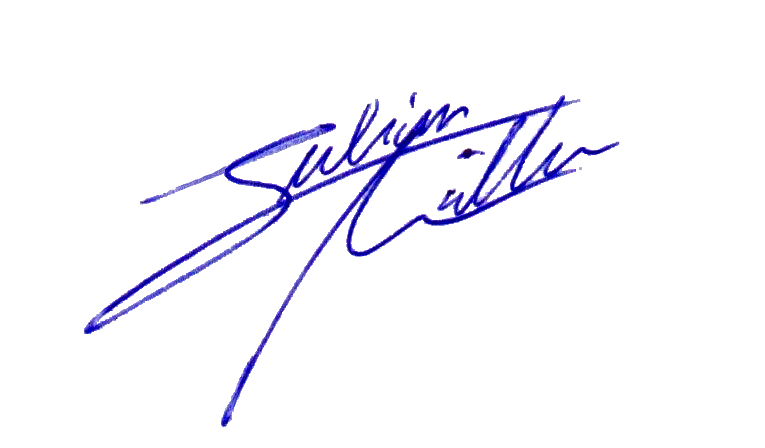
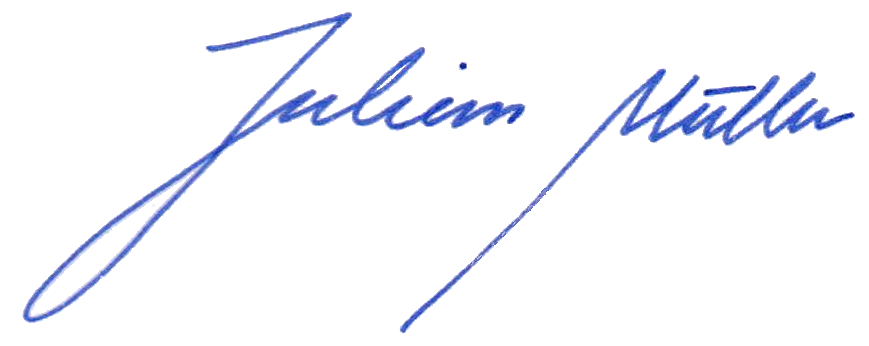
all done

diff --git a/CV.en/cv.tex b/CV.en/cv.tex
@@ -1,0 +1,248 @@
+\documentclass[noindent]{scrartcl}
+
+\usepackage{header}
+
+\begin{document}
+
+
+%----------------------------------------------------------------------------------------
+%	NAME AND CONTACT INFORMATION SECTION
+%----------------------------------------------------------------------------------------
+
+\thispagestyle{empty}
+\begin{tikzpicture}[remember picture,overlay]
+    \node[align=center] at ([yshift=-7cm]current page.north)%
+         {\huge \spacedallcaps{Curriculum Vitae}};
+    % cover photo
+    \node[align=center] (image) at ([yshift=-13cm]current page.north) %
+         {\includegraphics[width=75mm,height=105mm]{Foto}};
+    % name and address
+    \node[align=center] (name) at ([yshift=-19cm]current page.north) %
+         {\Huge \textcolor{blaze}{\spacedallcaps{Julian Müller}}};
+    \node[align=center] at ([yshift=-20.2cm]current page.north) %
+         {\textcolor{blaze}{\spacedallcaps{Maschinenbau, (B.E)}}};
+    \node[align=center] at ([yshift=-21.2cm]current page.north) %
+         {\textcolor{blaze}{\spacedallcaps{Logik, (M.A.)}}};
+    \node[align=left] at ([xshift=0.3cm,yshift=-25cm]current page.north) % 
+         {\color{textgray}
+			\begin{tabular}{lr}
+             Date of Birth & 29 Octobre 1984 \vspace{0.5em} \\
+
+             Place of Birth & 77694 Kehl (Germany) \vspace{0.5em} \\
+
+             Email & \href{mailto:jul.mue@hotmail.de}{jul.mue@hotmail.de} \vspace{0.5em} \\
+
+             Website & \href{https://julmue.github.io}{julmue.github.io} \vspace{0.5em} \\
+
+             Phone & +49 176 55509278 \vspace{0.5em}  \\
+
+             Address & Josef-Gottwald-Stra\ss e 1 \vspace{0.5em}  \\
+                       & 77654 Offenburg \vspace{0.5em} \\
+                       & Germany\\
+            \end{tabular}
+         };
+\end{tikzpicture}
+%\thispagestyle{empty} % Stop the page count at the bottom of the first page
+
+% Your name
+\newpage
+%\begin{cv}{\spacedallcaps{Julian Müller}}\vspace{1.5em} 
+
+%----------------------------------------------------------------------------------------
+%	EDUCATION
+%----------------------------------------------------------------------------------------
+
+\begin{cv}
+
+\topic{Education}
+
+\NewEntry{2013-2016}{Logic}{University of Leipzig}
+
+\Description{\MarginText{\href{http://www.sozphil.uni-leipzig.de/cm/logik/}{Master of Logics}\\
+(Grade Point Average: 1.8)}%
+%Abschluss: 1.6 (angestrebt)\newline%
+Specializations:
+\EvenThree
+    {\isym\ \textit{Constraint Programming}}%
+    {\isym\ \textit{Paraconsistent Logics}}%
+    {\isym\ \textit{Knowledge Representation}}
+{Thesis: \textit{The Lambda Calculus as a paradigmatic Concept of Computatbility}\newline
+\isym\ \textit{In Computer Science}: As a foundation for programming languages\newline
+\isym\ \textit{In Proof Theory}: Curry-Howard-Lambek-isomorphism\newline
+\isym\ \textit{In Mathematics}: As the internal language of cartesian closed categories\newline
+Supervisor: Dr.~Peter \textsc{Steinacker}, Prof.~Thomas \textsc{Bartelborth}}\newline
+Due: 14.07.2016}
+
+%------------------------------------------------
+
+\NewEntry{2008-2013}{Mechanical Engineering}{RFH Köln}
+
+\Description{\MarginText{Bachelor of Engineering\\(Grade Point Average: 1.8)}%
+Specialization:
+\EvenThree%
+    {\isym\ \textit{Technical Optics / Laser Technology}}%
+    {\isym\ \textit{Mechatronics}}%
+    {\isym\ \textit{Programming in C}}%
+Thesis (Grade 1.0): \textit{Wear Detection of Cutting Tools in Tunneling}\newline
+\isym\ \textit{Development and Construction of a Laser Scanner for Wear Detection}\newline
+\isym\ \textit{Comparison of Methods for Industrial Image Processing (2d/3d)}\newline
+\isym\ \textit{Project specific analysis of geometric and logistic constraints of\\ 
+               \hspace{0.8em}tunneling processes}\newline
+Supervisor: Prof.~Werner \textsc{Simon}, Prof.~Marcus \textsc{Scholl}}
+
+\NewEntry{2004-2007}{Event Organizer}{Angell Institut Freiburg}
+
+\Description{\MarginText{Event Organizer}%
+Training as an \textit{International Event Organizer}.}
+%------------------------------------------------
+
+%----------------------------------------------------------------------------------------
+%	WORK EXPERIENCE
+%----------------------------------------------------------------------------------------
+
+\topic{Work Experience}
+
+% ------------------------------------------------------------------------------
+% ------------------------------------------------------------------------------
+% ------------------------------------------------------------------------------
+\NewEntry{04/2012-07/2012}{Working Student}{Herrenknecht AG}
+
+\Description{\MarginText{Working Studend\\Research \& Development}%
+Completion of the research project :\newline
+Design and Construction of a test bench for laser triangulation:\newline
+\isym\ Calculation of the parameters of the optical measuring unit\newline
+\isym\ Design, implementation and commissioning of the prototype
+}
+
+\NewEntry{10/2010-04/2012}{Diplomate (R\&D)}{Herrenknecht AG}
+
+\Description{\MarginText{Diplomate\\Research \& Development}%
+Comparison of procedurs for optical measurment:\newline
+\isym\ Testing and examination of depth-map generating procedures\newline
+\isym\ Examination of procedures for feature detection in image data\newline
+\isym\ Analysis of processes in mechanized tunneling\newline
+\isym\ Developing a conceptual design of an optical measuring system
+}
+
+\NewEntry{09/2010-03/2011}{Intern (R\&D)}{Herrenknecht AG}
+     
+\Description{\MarginText{Intern\\Research \& Development}%
+Development of concepts for mechanized tunneling:\newline
+\isym\ Project: concepts of mechanized tunneling in nuclear research\newline
+\isym\ Concept for traffic tunneling: expansion of existing tunnels under \\
+       \hspace{0.85em}upkeep of road- and railtraffic
+}
+
+
+\NewEntry{01/2009-09/2009}{Tutor (Mathematics)}{RFH Köln}
+
+\Description{\MarginText{Tutor\\Mathematics}%
+Tutorial for engineering mathematics:\newline
+\isym\ Foundations of engineering mathematics\newline
+\isym\ Calculus\newline
+\isym\ Linear algebra
+}
+
+\NewEntry{04/2006-07/2006}{Intern (Administration)}{LLombart Export}
+     
+\Description{\MarginText{Intern\\(Administration)}%
+Internship abroad --- task area in administration:\\ 
+Office work, translations
+}
+
+% ------------------------------------------------------------------------------
+% ------------------------------------------------------------------------------
+% ------------------------------------------------------------------------------
+
+\newpage
+%----------------------------------------------------------------------------------------
+%	Projekte
+%----------------------------------------------------------------------------------------
+\topic{Software Projects}
+
+\NewEntry{Functional Programming}{Haskell}{\href{https://github.com/julmue/UntypedLambda}{Project Page}}
+
+\Description{\MarginText{Interpreter}%
+Interpreter for the untyped lambda calculus;
+Besides being the paradigmatic language for functional programming, the lambda calculus sees 
+wide application as an intermediate language for compilers.
+}
+
+\NewEntry{Functional Programming}{Haskell}{\href{https://github.com/julmue/lfo}{Project Page}}
+
+\Description{\MarginText{Type-Checker}%
+Interpreter for the simply typed lambda calculus;
+This calculus is the theoretical foundation for statically typed functional programming languages
+and of major importance in proof theory.
+}
+
+\NewEntry{Constraint Programmierung}{Haskell}{\href{https://github.com/julmue/Clank}{Project Page}}
+
+\Description{\MarginText{Solver}%
+Solver for the paraconsistent propositional logics K3, L3, LP, RM and for classic propositional calculus.
+Applications for these  logics are in robotics, artificial intelligenze and knowledge representation.
+}
+
+\NewEntry{Constraint Programming}{Prolog}{\href{https://github.com/julmue/DpllDimacSatSolver}{Project Page}}
+
+\Description{\MarginText{SAT-Solver}%
+Solver for the satisfiablility problem (SAT) of classical propositional calculus;\\
+This procedure is used widely in the industry,
+especially for solving constructability and planning problems as well as in variant management. 
+}
+
+\NewEntry{Proof Theory}{Haskell}{\href{https://github.com/julmue/HaskellCurryHoward}{Project Page}}
+
+\Description{\MarginText{Proof Theory /\\Combinator Library}%
+The Curry-Howard-Lambek-isomorphism is the central connection 
+of functional programming, logcis and category theory:
+Programs are constructive proofs, and constructive proofs are morphisms.
+}
+
+%------------------------------------------------
+
+
+%----------------------------------------------------------------------------------------
+%	COMPUTER SKILLS
+%----------------------------------------------------------------------------------------
+\topic{Programming Languages}
+
+\Description{\MarginText{Very Good} Haskell, Prolog, SMT-Lib}
+
+\Description{\MarginText{Good} Java, C, MATLAB, Simulink, OCaml}
+
+\Description{\MarginText{Basics} Scala, SQL, JavaScript/ECMAScript, HTML, CSS, C++, Bash}
+
+
+\topic{Technologies}
+
+\Description{\MarginText{Operating Systems} Linux (Ubuntu, Mint, \dots), Windows}
+
+\Description{\MarginText{Version Control Systems} git}
+
+\Description{\MarginText{Computer Vision} MathWorks Image Processing Toolbox (MATLAB)}
+
+\Description{\MarginText{Testing Frameworks} XUnit-Frameworks in Java, Haskell, Prolog, C++, C, \dots}
+
+
+%-------------------------------------------------------------------------------
+\topic{Languages}
+
+\Description{\MarginText{Mother Tongue} German}
+\Description{\MarginText{Very Good} English}
+\Description{\MarginText{Basics} Spanish}
+
+
+%-------------------------------------------------------------------------------
+\topic{Miscellaneous}
+
+\NewEntry{08/2005-03/2006}{Work \& Travel}{New Zealand}
+
+\Description{\MarginText{Work \& Travel}%
+Language study- and working holiday New Zealand
+}
+
+
+\end{cv}
+
+\end{document}

diff --git a/CV.de/cv.tex b/CV.de/cv.tex
@@ -66,9 +66,9 @@ Spezialisierungen:
     {\isym\ \textit{Parakonsistente Logiken}}%
     {\isym\ \textit{Wissensrepräsentation}}
 {Abschlussarbeit: \textit{Das Lambdakalkül als paradigmatischer Berechenbarkeitsbegriff}\newline
-\isym\ \textit{In der Informatik}: Als Grundlage funktionaler Programmiersprachen.\newline
-\isym\ \textit{In der Beweistheorie}: Curry-Howard-Lambek-Isomorphismus.\newline
-\isym\ \textit{In der Mathematik}: Als interne Sprache kartesisch geschlossener Kategorien.\newline
+\isym\ \textit{In der Informatik}: Als Grundlage funktionaler Programmiersprachen\newline
+\isym\ \textit{In der Beweistheorie}: Curry-Howard-Lambek-Isomorphismus\newline
+\isym\ \textit{In der Mathematik}: Als interne Sprache kartesisch geschlossener Kategorien\newline
 Betreuer: Dr.~Peter \textsc{Steinacker}, Prof.~Thomas \textsc{Bartelborth}}\newline
 Abgabe: 14.07.2016}
 
@@ -83,19 +83,16 @@ Spezialisierungen:
     {\isym\ \textit{Mechatronik}}%
     {\isym\ \textit{Programmieren in C}}%
 Abschlussarbeit (Note 1.0): \textit{Verschlei\ss erkennung bei Werkzeugen im Tunnelbau}\newline
-\isym\ \textit{Entwicklung, Bau und Inbetriebnahme eines Laserscanners zur Verschlei\ss messung.}\newline
-\isym\ \textit{Vergleich von Verfahren der industriellen Bildverarbeitung (2d/3d).}\newline
+\isym\ \textit{Entwicklung, Bau und Inbetriebnahme eines Laserscanners zur Verschlei\ss messung}\newline
+\isym\ \textit{Vergleich von Verfahren der industriellen Bildverarbeitung (2d/3d)}\newline
 \isym\ \textit{Projektspezifische Analyse geometrischer und logistischer Randbedingungen von\\ 
-               \hspace{0.8em}Vortriebsprozessen im maschinellen Tunnelbau.}\newline
+               \hspace{0.8em}Vortriebsprozessen im maschinellen Tunnelbau}\newline
 Betreuer: Prof.~Werner \textsc{Simon}, Prof.~Marcus \textsc{Scholl}}
 
 \NewEntry{2004-2007}{Event Organizer}{Angell Institut Freiburg}
 
 \Description{\MarginText{Event Organizer}%
 Ausbildung zum \textit{International Event Organizer}.}
-%------------------------------------------------
-
-\vspace{1em} % Extra space between major sections
 
 %----------------------------------------------------------------------------------------
 %	WORK EXPERIENCE
@@ -129,7 +126,7 @@ Projektbezogene Untersuchung von Verfahren der optischen Messtechnik:\newline
      
 \Description{\MarginText{Praktikant\\Forschung \& Entwicklung}%
 Entwicklung von Konzepten zum maschinellen Tunnelvortrieb:\newline
-\isym\ Recherche für den maschinellen Tunnelvortrieb bei Atomendlagern\newline
+\isym\ Projekt: maschineller Tunnelvortrieb in der nuklearen Forschung\newline
 \isym\ Maschinenkonzept: Aufweitung bestehender Tunnel unter \\
        \hspace{0.85em}Aufrechterhaltung des Stra\ss en- und Bahnverkehrs
 }
@@ -165,9 +162,17 @@ Administration, Übersetzungen, Ablage
 
 \Description{\MarginText{Interpreter}%
 Interpreter für das untypisierte Lambdakalkül; 
-dieses Kalkül ist unter anderem Zielsprache für Compiler funktionaler Sprachen, 
-sowie Zwischensprache für die Übersetzung 
-funktionaler Programme auf die Von-Neumann-Architektur.
+Die durch das untypisierte Lambdakalkül formalisierte Berechenbarkeit ist äquivalent zur Turing-Berechenbarkeit.
+Weiter ist das System Grundlage für funktionale Programmiersprachen und findet Anwendung als 
+Zwischensprache (\emph{Intermediate Language}) im Compilerbau.
+}
+
+\NewEntry{Funktionale Programmierung}{Haskell}{\href{https://github.com/julmue/lfo}{Projektseite}}
+
+\Description{\MarginText{Interpreter}%
+Interpreter für das einfach typisierte Lambdakalkül;
+Dieses Kalkül ist das theoretische Fundament statisch typisierte funktionaler
+Programmierspachen und von zentraler Bedeutung in der Beweistheorie.
 }
 
 \NewEntry{Constraint Programmierung}{Haskell}{\href{https://github.com/julmue/Clank}{Projektseite}}
@@ -187,14 +192,6 @@ Industrielle Anwendungen findet dieses Verfahren bei der Lösung von
 Baubarkeits- und Planungsproblemen sowie im Variantenmanagement.
 }
 
-\NewEntry{Funktionale Programmierung}{Haskell}{\href{https://github.com/julmue/LambdaTypeCheckers}{Projektseite}}
-
-\Description{\MarginText{Type-Checker}%
-Type-Checker für das verschiedene typisierte Lambdakalküle. 
-Diese Kalküle sind das theoretische Fundament statisch typisierte funktionaler
-Programmierspachen und von zentraler Bedeutung in der Beweistheorie.
-}
-
 \NewEntry{Beweistheorie}{Haskell}{\href{https://github.com/julmue/HaskellCurryHoward}{Projektseite}}
 
 \Description{\MarginText{Beweistheorie /\\Kombinatoren-bibliothek}%
@@ -203,20 +200,16 @@ funktionaler Programmierung, Logik und Kategorientheorie:
 Programme sind konstruktive Beweise, konstruktive Beweise sind Morphismen.
 }
 
-%------------------------------------------------
-
-\vspace{1em} % Extra space between major sections
-
 %----------------------------------------------------------------------------------------
 %	COMPUTER SKILLS
 %----------------------------------------------------------------------------------------
 \topic{Programmiersprachen}
 
-\Description{\MarginText{Sehr gut} Haskell, Prolog, SMT-Lib}
+\Description{\MarginText{Sehr gut} Haskell}
 
-\Description{\MarginText{Gut} Java, C, MATLAB, Simulink, OCaml}
+\Description{\MarginText{Gut} Prolog, C, MATLAB, Simulink, OCaml}
 
-\Description{\MarginText{Grundlagen} Scala, SQL, JavaScript/ECMAScript, HTML, CSS, C++, Bash}
+\Description{\MarginText{Grundlagen} Scala, SQL, JavaScript/ECMAScript, HTML, CSS, Java, Bash, SMT-Lib}
 
 
 \topic{Technologien}
@@ -233,7 +226,7 @@ Programme sind konstruktive Beweise, konstruktive Beweise sind Morphismen.
 %-------------------------------------------------------------------------------
 \topic{Fremdsprachen}
 
-\Description{\MarginText{Sehr gut}Englisch (verhandlungssicher)}
+\Description{\MarginText{Sehr gut}Englisch (\emph{verhandlungssicher})}
 \Description{\MarginText{Grundlagen}Spanisch}
 
 

diff --git a/Anschreiben/anschreiben.tex b/Anschreiben/anschreiben.tex
@@ -28,6 +28,8 @@
 
 \usepackage{xcolor}
 \usepackage{summer}
+\definecolor{textgray}{HTML}{444444}
+\color{textgray}
 
 \usepackage{textcase}
 \newcommand{\spacedallcaps}[1]{\textls[160]{\MakeTextUppercase{#1}}}%
@@ -43,7 +45,7 @@
 \setkomavar{fromphone}{+49 0000 0\,00\,00\,00}
 \setkomavar{fromemail}{jul.mue@hotmail.de}
 \setkomavar{backaddressseparator}{\enspace\textperiodcentered\enspace}
-\setkomavar{signature}{\includegraphics[width=4.5cm]{sig}\\\vspace{-3em}{(Julian Müller)}}
+\setkomavar{signature}{\includegraphics[height=2.7cm,width=5cm]{sig}\\\vspace{-4em}{(Julian Müller)}}
 \setkomavar{place}{Offenburg}
 \setkomavar{date}{\today}
 \setkomavar{enclseparator}{: }
